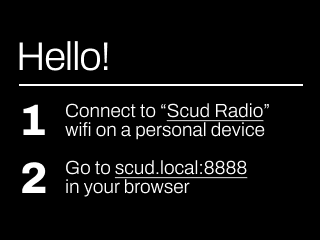
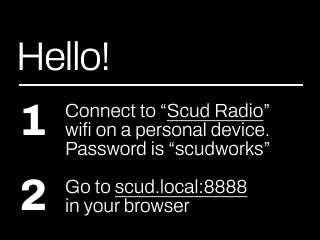
redesign

Changed region(s): [[0.1875, 0.5833, 0.8438, 0.9042], [0.0625, 0.6708, 0.1562, 0.875]]

diff --git a/portal.py b/portal.py
@@ -59,7 +59,7 @@ app.secret_key = 'sticky-lemon'
 
 def start_hotspot():
     subprocess.run(['sudo', 'nmcli', 'device', 'wifi', 'hotspot', 
-                'ifname', 'wlan0', 'ssid', 'Scud Radio','password','scudworks'])
+                'ifname', 'wlan0', 'ssid', 'Scud Radio','password','scudradio'])
 
 def internet(host="8.8.8.8", port=53, timeout=4, retries=3):
     for attempt in range(retries):

diff --git a/splash.py b/splash.py
@@ -82,8 +82,6 @@ def display_wifi_waiting():
 display_splash()
 
 wifi_waiting = True
-#wifi_thread = threading.Thread(target=display_wifi_waiting, daemon=True)
-#wifi_thread.start()
 
 if not wait_for_wifi_interface():
     wifi_waiting = False
